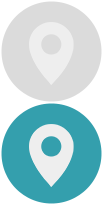
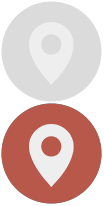
Site updated at 2013-11-23 23:05:37 UTC

Changed region(s): [[0.0, 0.4951, 0.9808, 0.9903], [0.375, 0.6408, 0.6058, 0.7864]]

diff --git a/locations/greenville/index.html b/locations/greenville/index.html
@@ -43,10 +43,10 @@
 </head>
 
 <body>
-  <div class="header" style="background-color:  #D2B42A ;"><div class="container"><a href="/"><div class="logo"><img src="/images/iron-yard-logo.svg" /></div></a><div class="primary"><ul class="pages-list"><li><a href="/jobs">Jobs</a></li><li><a href="/about">About</a></li><li><a href="http://theironyardnews.tumblr.com">News</a></li><li><a href="/blog">Blog</a></li></ul><ul class="sites-list"><li><a href="/locations">Locations</a></li><li><a href="/education">Education</a></li><li><a href="/accelerator">Accelerator</a></li><li><a href="/cowork">CoWork</a></li></ul></div></div></div>
+  <div class="header" style="background-color:  #B8584B ;"><div class="container"><a href="/"><div class="logo"><img src="/images/iron-yard-logo.svg" /></div></a><div class="primary"><ul class="pages-list"><li><a href="/jobs">Jobs</a></li><li><a href="/about">About</a></li><li><a href="http://theironyardnews.tumblr.com">News</a></li><li><a href="/blog">Blog</a></li></ul><ul class="sites-list"><li><a href="/locations">Locations</a></li><li><a href="/education">Education</a></li><li><a href="/accelerator">Accelerator</a></li><li><a href="/cowork">CoWork</a></li></ul></div></div></div>
 
   
-  <div class="main" style="width:100%;"><div class="intro"><div class="slider"><ul><li class="animate-out"><div class="slide"><div class="bg" style="background-image: url(/images/locations/greenville/slider/greenville-slider-city.jpg);"></div></div></li><li class="animate-out"><div class="slide"><div class="bg" style="background-image: url(/images/locations/greenville/slider/greenville-slider-next.jpg);"></div></div></li><li class="animate-out"><div class="slide"><div class="bg" style="background-image: url(/images/locations/greenville/slider/greenville-slider-mountains.jpg);"></div></div></li><li class="animate-out"><div class="slide"><div class="bg" style="background-image: url(/images/locations/greenville/slider/greenville-slider-railside.jpg);"></div></div></li><li class="animate-out"><div class="slide"><div class="bg" style="background-image: url(/images/locations/greenville/slider/greenville-slider-river.jpg);"></div></div></li></ul></div></div><div class="intro" style="background-color:#D2B42A;"><div class="container"><div class="row"><div class="intro-content"><div class="triangle" style="border-top: 20px solid #D2B42A;"></div><h1><a class="ss-left back" href="/locations"></a>Greenville, SC</h1><div class="secondary"></div></div></div></div></div><div class="container"><div class="content"><div class="article row"><div class="span8"><div class="article-content"><p>Nestled into the foothills of the Blue Ridge Mountains, Greenville, South Carolina has combined traditional southern charm, stunning natural beauty and nationally-respected tech and design communities to create one of America&#8217;s hottest emerging destinations and fastest growing cities. </p><p>Greenville is also the birthplace of The Iron Yard, home to our HQ, and made the way for our first accelerator program, first intensive Academy courses, and first kids classes.</p><h2>What we offer in Greenville</h2><h3>The Iron Yard Academy</h3><hr /><p class="programs-image"><img alt="The Iron Yard Academy" src="/images/locations/greenville/programs/greenville-programs-academy.jpg" /></p><div class="right-of-img"><p>We offer an intensive Front End Enginerering course and other, shorter-format design and development classes in Greenville. </p><ul><li><a href="/education/academy/front-end-engineering">Front End Engineering</a></li><li><a href="/education/academy">All courses</a></li></ul></div><h3>CoWorking Spaces</h3><hr /><p class="programs-image"><img alt="CoWorking at The Iron Yard" src="/images/locations/greenville/programs/greenville-programs-cowork.jpg" /></p><div class="right-of-img"><p>We have two phenomenal CoWorking spaces in Greenville. Railside and NEXT is adjacent to our Academy classroom space, and Railside is a stand-alone location just a short bike ride away. </p><ul><li><a href="/cowork">Learn more about CoWorking at The Iron Yard</a></li></ul></div><h3>CoderDojo and kids classes</h3><hr /><p class="programs-image"><img alt="CoderDojo and kids classes" src="/images/locations/greenville/programs/greenville-programs-kids.jpg" /></p><div class="right-of-img"><p>We teach kids programming classes for free through CoderDojo and offer more advanced after school programs through our Labs courses. </p><ul><li><a href="/education/coderdojo">Greenville CoderDojo classes</a></li><li><a href="/education/labs">Greenville Labs courses</a></li></ul></div><h3>Greenville Grok</h3><hr /><p class="programs-image"><img alt="Grok" src="/images/locations/greenville/programs/greenville-programs-grok.jpg" /></p><div class="right-of-img"><p>Grok is a conference focused on big conversations and big change—but don&#8217;t expect your average speaker-and-panel format. There are no heroes here, just people hungry for tectonic shifts in thinking and doing.</p><ul><li><a href="/events/grok">Learn more about Greenville Grok</a></li><li><a href="https://tito.io/the-iron-yard/Grok-2014">Get a ticket (while they last)</a></li></ul></div></div></div><div class="article-sidebar-city span4"><div class="headersignup"><div class="article-sidebar-content-section"><p><img alt="Greenville, SC Falls Park and Liberty Bridge" src="/images/locations/greenville/sidebar/greenville-sidebar-bridge.jpg" style="border-radius: 3px;" /></p><p>Learn more about life and work in Greenville. </p><p><a class="button" href="http://lifeingreenville.com">Life in Greenville</a></p></div><div class="article-sidebar-content-section"><p><img alt="Greenville, SC Falls Fall for Greenville crowds on Main Street" src="/images/locations/greenville/sidebar/greenville-sidebar-festival.jpg" style="border-radius: 3px;" /></p><p>Check out everything that&#8217;s happening. </p><p><a class="button" href="http://visitgreenvillesc.com">Visit Greenville, SC</a></p></div><h3>Other locations</h3><hr /><ul><li><a href="/locations/spartanburg">Spartanburg, SC</a></li></ul></div></div></div></div></div></div><script type="text/javascript">$('document').ready(function(){
+  <div class="main" style="width:100%;"><div class="intro"><div class="slider"><ul><li class="animate-out"><div class="slide"><div class="bg" style="background-image: url(/images/locations/greenville/slider/greenville-slider-city.jpg);"></div></div></li><li class="animate-out"><div class="slide"><div class="bg" style="background-image: url(/images/locations/greenville/slider/greenville-slider-next.jpg);"></div></div></li><li class="animate-out"><div class="slide"><div class="bg" style="background-image: url(/images/locations/greenville/slider/greenville-slider-mountains.jpg);"></div></div></li><li class="animate-out"><div class="slide"><div class="bg" style="background-image: url(/images/locations/greenville/slider/greenville-slider-railside.jpg);"></div></div></li><li class="animate-out"><div class="slide"><div class="bg" style="background-image: url(/images/locations/greenville/slider/greenville-slider-river.jpg);"></div></div></li></ul></div></div><div class="intro" style="background-color:#B8584B;"><div class="container"><div class="row"><div class="intro-content"><div class="triangle" style="border-top: 20px solid #B8584B;"></div><h1><a class="ss-left back" href="/locations"></a>Greenville, SC</h1><div class="secondary"></div></div></div></div></div><div class="container"><div class="content"><div class="article row"><div class="span8"><div class="article-content"><p>Nestled into the foothills of the Blue Ridge Mountains, Greenville, South Carolina has combined traditional southern charm, stunning natural beauty and nationally-respected tech and design communities to create one of America&#8217;s hottest emerging destinations and fastest growing cities. </p><p>Greenville is also the birthplace of The Iron Yard, home to our HQ, and made the way for our first accelerator program, first intensive Academy courses, and first kids classes.</p><h2>What we offer in Greenville</h2><h3>The Iron Yard Academy</h3><hr /><p class="programs-image"><img alt="The Iron Yard Academy" src="/images/locations/greenville/programs/greenville-programs-academy.jpg" /></p><div class="right-of-img"><p>We offer an intensive Front End Enginerering course and other, shorter-format design and development classes in Greenville. </p><ul><li><a href="/education/academy/front-end-engineering">Front End Engineering</a></li><li><a href="/education/academy">All courses</a></li></ul></div><h3>CoWorking Spaces</h3><hr /><p class="programs-image"><img alt="CoWorking at The Iron Yard" src="/images/locations/greenville/programs/greenville-programs-cowork.jpg" /></p><div class="right-of-img"><p>We have two phenomenal CoWorking spaces in Greenville. Railside and NEXT is adjacent to our Academy classroom space, and Railside is a stand-alone location just a short bike ride away. </p><ul><li><a href="/cowork">Learn more about CoWorking at The Iron Yard</a></li></ul></div><h3>CoderDojo and kids classes</h3><hr /><p class="programs-image"><img alt="CoderDojo and kids classes" src="/images/locations/greenville/programs/greenville-programs-kids.jpg" /></p><div class="right-of-img"><p>We teach kids programming classes for free through CoderDojo and offer more advanced after school programs through our Labs courses. </p><ul><li><a href="/education/coderdojo">Greenville CoderDojo classes</a></li><li><a href="/education/labs">Greenville Labs courses</a></li></ul></div><h3>Greenville Grok</h3><hr /><p class="programs-image"><img alt="Grok" src="/images/locations/greenville/programs/greenville-programs-grok.jpg" /></p><div class="right-of-img"><p>Grok is a conference focused on big conversations and big change—but don&#8217;t expect your average speaker-and-panel format. There are no heroes here, just people hungry for tectonic shifts in thinking and doing.</p><ul><li><a href="/events/grok">Learn more about Greenville Grok</a></li><li><a href="https://tito.io/the-iron-yard/Grok-2014">Get a ticket (while they last)</a></li></ul></div></div></div><div class="article-sidebar-city span4"><div class="headersignup"><div class="article-sidebar-content-section"><p><img alt="Greenville, SC Falls Park and Liberty Bridge" src="/images/locations/greenville/sidebar/greenville-sidebar-bridge.jpg" style="border-radius: 3px;" /></p><p>Learn more about life and work in Greenville. </p><p><a class="button" href="http://lifeingreenville.com">Life in Greenville</a></p></div><div class="article-sidebar-content-section"><p><img alt="Greenville, SC Falls Fall for Greenville crowds on Main Street" src="/images/locations/greenville/sidebar/greenville-sidebar-festival.jpg" style="border-radius: 3px;" /></p><p>Check out everything that&#8217;s happening. </p><p><a class="button" href="http://visitgreenvillesc.com">Visit Greenville, SC</a></p></div><h3>Other locations</h3><hr /><ul><li><a href="/locations/spartanburg">Spartanburg, SC</a></li></ul></div></div></div></div></div></div><script type="text/javascript">$('document').ready(function(){
   sequence = $(".slider").sequence({
     autoPlay: true,
     autoPlayDelay: 3000,

diff --git a/locations/spartanburg/index.html b/locations/spartanburg/index.html
@@ -43,10 +43,10 @@
 </head>
 
 <body>
-  <div class="header" style="background-color:  #D2B42A ;"><div class="container"><a href="/"><div class="logo"><img src="/images/iron-yard-logo.svg" /></div></a><div class="primary"><ul class="pages-list"><li><a href="/jobs">Jobs</a></li><li><a href="/about">About</a></li><li><a href="http://theironyardnews.tumblr.com">News</a></li><li><a href="/blog">Blog</a></li></ul><ul class="sites-list"><li><a href="/locations">Locations</a></li><li><a href="/education">Education</a></li><li><a href="/accelerator">Accelerator</a></li><li><a href="/cowork">CoWork</a></li></ul></div></div></div>
+  <div class="header" style="background-color:  #B8584B ;"><div class="container"><a href="/"><div class="logo"><img src="/images/iron-yard-logo.svg" /></div></a><div class="primary"><ul class="pages-list"><li><a href="/jobs">Jobs</a></li><li><a href="/about">About</a></li><li><a href="http://theironyardnews.tumblr.com">News</a></li><li><a href="/blog">Blog</a></li></ul><ul class="sites-list"><li><a href="/locations">Locations</a></li><li><a href="/education">Education</a></li><li><a href="/accelerator">Accelerator</a></li><li><a href="/cowork">CoWork</a></li></ul></div></div></div>
 
   
-  <div class="main" style="width:100%;"><div class="intro"><div class="slider"><ul><li class="animate-out"><div class="slide"><div class="bg" style="background-image: url(/images/locations/spartanburg/slider/spartanburg-slider-city.jpg);"></div></div></li><li class="animate-out"><div class="slide"><div class="bg" style="background-image: url(/images/locations/spartanburg/slider/spartanburg-slider-bmw.jpg);"></div></div></li><li class="animate-out"><div class="slide"><div class="bg" style="background-image: url(/images/locations/spartanburg/slider/spartanburg-slider-fountain.jpg);"></div></div></li><li class="animate-out"><div class="slide"><div class="bg" style="background-image: url(/images/locations/spartanburg/slider/spartanburg-slider-big-wheels.jpg);"></div></div></li></ul></div></div><div class="intro" style="background-color:#D2B42A;"><div class="container"><div class="row"><div class="intro-content"><div class="triangle" style="border-top: 20px solid #D2B42A;"></div><h1><a class="ss-left back" href="/locations"></a>Spartanburg, SC</h1><div class="secondary"></div></div></div></div></div><div class="container"><div class="content"><div class="article row"><div class="span8"><div class="article-content"><p>A proverbial sister-city to Greenville, Spartanburg is where we launched our second location and Digital Health Accelerator. Originally known for its historic charm (think turn of the century houses and an old school town square complete with clock tower), its leaders are fully committed to the next wave of its development as a medical innovation hub. </p><p>The successful fundraising after our first class is more than enough proof that their vision is becoming reality.</p><h2>What we offer in Spartanburg</h2><h3>Digital Health Accelerator</h3><hr /><p class="programs-image"><img alt="Digital Health Accelerator" src="/images/locations/spartanburg/programs/spartanburg-programs-health-accelerator.jpg" /></p><div class="right-of-img"><p>From wellness apps to enterprise software, we’re helping startups build the future of health.</p><ul><li><a href="/accelerator/digital-health-program">Checkout the Digital Health Accelerator</a></li><li><a href="/portfolio">Browse our portfolio companies</a></li></ul></div><h3>CoWorking Space</h3><hr /><p class="programs-image"><img alt="CoWorking at The Iron Yard" src="/images/locations/spartanburg/programs/spartanburg-programs-cowork.jpg" /></p><div class="right-of-img"><p>Housed in the same buildling as our Health Accelerator, The Mill is an incredible collection of startups and creative people. It&#8217;s also 1 block away from an amazing craft brewery. </p><ul><li><a href="/cowork">Learn more about CoWorking at The Iron Yard</a></li></ul></div><h3>CoderDojo and kids classes</h3><hr /><p class="programs-image"><img alt="CoderDojo and kids classes" src="/images/locations/greenville/programs/greenville-programs-kids.jpg" /></p><div class="right-of-img"><p>We teach kids programming classes for free through CoderDojo and offer more advanced after school programs through our Labs courses. </p><ul><li><a href="/education/coderdojo">Spartanburg CoderDojo classes</a></li><li><a href="/education/labs">Spartanburg Labs courses</a></li></ul></div></div></div><div class="article-sidebar-city span4"><div class="headersignup"><div class="article-sidebar-content-section"><p><img alt="Greenville, SC Falls Park and Liberty Bridge" src="/images/locations/spartanburg/sidebar/spartanburg-sidebar-fountain.jpg" style="border-radius: 3px;" /></p><p>Learn more about life and work in Spartanburg. </p><p><a class="button" href="http://www.cityofspartanburg.org/">City of Spartanburg</a></p></div><div class="article-sidebar-content-section"><p><img alt="Greenville, SC Falls Fall for Greenville crowds on Main Street" src="/images/locations/spartanburg/sidebar/spartanburg-sidebar-hub-bub.jpg" style="border-radius: 3px;" /></p><p>Discover Spartanburg&#8217;s creative culture.  </p><p><a class="button" href="http://www.hub-bub.com/">Events at Hub-Bub</a></p></div><h3>Other locations</h3><hr /><ul><li><a href="/locations/greenville">Greenville, SC</a></li></ul></div></div></div></div></div></div><script type="text/javascript">$('document').ready(function(){
+  <div class="main" style="width:100%;"><div class="intro"><div class="slider"><ul><li class="animate-out"><div class="slide"><div class="bg" style="background-image: url(/images/locations/spartanburg/slider/spartanburg-slider-city.jpg);"></div></div></li><li class="animate-out"><div class="slide"><div class="bg" style="background-image: url(/images/locations/spartanburg/slider/spartanburg-slider-bmw.jpg);"></div></div></li><li class="animate-out"><div class="slide"><div class="bg" style="background-image: url(/images/locations/spartanburg/slider/spartanburg-slider-fountain.jpg);"></div></div></li><li class="animate-out"><div class="slide"><div class="bg" style="background-image: url(/images/locations/spartanburg/slider/spartanburg-slider-big-wheels.jpg);"></div></div></li></ul></div></div><div class="intro" style="background-color:#B8584B;"><div class="container"><div class="row"><div class="intro-content"><div class="triangle" style="border-top: 20px solid #B8584B;"></div><h1><a class="ss-left back" href="/locations"></a>Spartanburg, SC</h1><div class="secondary"></div></div></div></div></div><div class="container"><div class="content"><div class="article row"><div class="span8"><div class="article-content"><p>A proverbial sister-city to Greenville, Spartanburg is where we launched our second location and Digital Health Accelerator. Originally known for its historic charm (think turn of the century houses and an old school town square complete with clock tower), its leaders are fully committed to the next wave of its development as a medical innovation hub. </p><p>The successful fundraising after our first class is more than enough proof that their vision is becoming reality.</p><h2>What we offer in Spartanburg</h2><h3>Digital Health Accelerator</h3><hr /><p class="programs-image"><img alt="Digital Health Accelerator" src="/images/locations/spartanburg/programs/spartanburg-programs-health-accelerator.jpg" /></p><div class="right-of-img"><p>From wellness apps to enterprise software, we’re helping startups build the future of health.</p><ul><li><a href="/accelerator/digital-health-program">Checkout the Digital Health Accelerator</a></li><li><a href="/portfolio">Browse our portfolio companies</a></li></ul></div><h3>CoWorking Space</h3><hr /><p class="programs-image"><img alt="CoWorking at The Iron Yard" src="/images/locations/spartanburg/programs/spartanburg-programs-cowork.jpg" /></p><div class="right-of-img"><p>Housed in the same buildling as our Health Accelerator, The Mill is an incredible collection of startups and creative people. It&#8217;s also 1 block away from an amazing craft brewery. </p><ul><li><a href="/cowork">Learn more about CoWorking at The Iron Yard</a></li></ul></div><h3>CoderDojo and kids classes</h3><hr /><p class="programs-image"><img alt="CoderDojo and kids classes" src="/images/locations/greenville/programs/greenville-programs-kids.jpg" /></p><div class="right-of-img"><p>We teach kids programming classes for free through CoderDojo and offer more advanced after school programs through our Labs courses. </p><ul><li><a href="/education/coderdojo">Spartanburg CoderDojo classes</a></li><li><a href="/education/labs">Spartanburg Labs courses</a></li></ul></div></div></div><div class="article-sidebar-city span4"><div class="headersignup"><div class="article-sidebar-content-section"><p><img alt="Greenville, SC Falls Park and Liberty Bridge" src="/images/locations/spartanburg/sidebar/spartanburg-sidebar-fountain.jpg" style="border-radius: 3px;" /></p><p>Learn more about life and work in Spartanburg. </p><p><a class="button" href="http://www.cityofspartanburg.org/">City of Spartanburg</a></p></div><div class="article-sidebar-content-section"><p><img alt="Greenville, SC Falls Fall for Greenville crowds on Main Street" src="/images/locations/spartanburg/sidebar/spartanburg-sidebar-hub-bub.jpg" style="border-radius: 3px;" /></p><p>Discover Spartanburg&#8217;s creative culture.  </p><p><a class="button" href="http://www.hub-bub.com/">Events at Hub-Bub</a></p></div><h3>Other locations</h3><hr /><ul><li><a href="/locations/greenville">Greenville, SC</a></li></ul></div></div></div></div></div></div><script type="text/javascript">$('document').ready(function(){
   sequence = $(".slider").sequence({
     autoPlay: true,
     autoPlayDelay: 3000,

diff --git a/locations/index.html b/locations/index.html
@@ -43,10 +43,10 @@
 </head>
 
 <body>
-  <div class="header" style="background-color:  #D2B42A ;"><div class="container"><a href="/"><div class="logo"><img src="/images/iron-yard-logo.svg" /></div></a><div class="primary"><ul class="pages-list"><li><a href="/jobs">Jobs</a></li><li><a href="/about">About</a></li><li><a href="http://theironyardnews.tumblr.com">News</a></li><li><a href="/blog">Blog</a></li></ul><ul class="sites-list"><li><a href="/locations">Locations</a></li><li><a href="/education">Education</a></li><li><a href="/accelerator">Accelerator</a></li><li><a href="/cowork">CoWork</a></li></ul></div></div></div>
+  <div class="header" style="background-color:  #B8584B ;"><div class="container"><a href="/"><div class="logo"><img src="/images/iron-yard-logo.svg" /></div></a><div class="primary"><ul class="pages-list"><li><a href="/jobs">Jobs</a></li><li><a href="/about">About</a></li><li><a href="http://theironyardnews.tumblr.com">News</a></li><li><a href="/blog">Blog</a></li></ul><ul class="sites-list"><li><a href="/locations">Locations</a></li><li><a href="/education">Education</a></li><li><a href="/accelerator">Accelerator</a></li><li><a href="/cowork">CoWork</a></li></ul></div></div></div>
 
   
-  <div class="main" style="width:100%;"><div class="intro" style="background-color:#D2B42A;"><div class="short-slide" style="background-image: url(/images/locations/locations-banner.jpg);"></div><div class="container"><div class="row"><div class="intro-content"><div class="triangle" style="border-top: 20px solid #D2B42A;"></div><h1><a class="ss-left back" href="/"></a>Locations</h1><div class="description">The Iron Yard is one family with many homes. These are our cities.</div><div class="secondary"></div></div></div></div></div><div class="container"><div class="content"><div class="article row"><div class=" span12 "><div class="article-content"><div class="location-index">
+  <div class="main" style="width:100%;"><div class="intro" style="background-color:#B8584B;"><div class="short-slide" style="background-image: url(/images/locations/locations-banner.jpg);"></div><div class="container"><div class="row"><div class="intro-content"><div class="triangle" style="border-top: 20px solid #B8584B;"></div><h1><a class="ss-left back" href="/"></a>Locations</h1><div class="description">The Iron Yard is one family with many homes. These are our cities.</div><div class="secondary"></div></div></div></div></div><div class="container"><div class="content"><div class="article row"><div class=" span12 "><div class="article-content"><div class="location-index">
   <div class="span8">
     <h2>Atlanta, GA</h2>
   </div>
@@ -85,7 +85,7 @@
   </div>
 
   <div class="article-sidebar span4">
-    <a class="locations-button" href="/locations/charleston">
+    <a class="locations-button" href="/locations/charleston"> 
       <p>Learn More</p>
     </a>
 

diff --git a/locations/charleston/index.html b/locations/charleston/index.html
@@ -43,10 +43,10 @@
 </head>
 
 <body>
-  <div class="header" style="background-color:  #D2B42A ;"><div class="container"><a href="/"><div class="logo"><img src="/images/iron-yard-logo.svg" /></div></a><div class="primary"><ul class="pages-list"><li><a href="/jobs">Jobs</a></li><li><a href="/about">About</a></li><li><a href="http://theironyardnews.tumblr.com">News</a></li><li><a href="/blog">Blog</a></li></ul><ul class="sites-list"><li><a href="/locations">Locations</a></li><li><a href="/education">Education</a></li><li><a href="/accelerator">Accelerator</a></li><li><a href="/cowork">CoWork</a></li></ul></div></div></div>
+  <div class="header" style="background-color:  #B8584B ;"><div class="container"><a href="/"><div class="logo"><img src="/images/iron-yard-logo.svg" /></div></a><div class="primary"><ul class="pages-list"><li><a href="/jobs">Jobs</a></li><li><a href="/about">About</a></li><li><a href="http://theironyardnews.tumblr.com">News</a></li><li><a href="/blog">Blog</a></li></ul><ul class="sites-list"><li><a href="/locations">Locations</a></li><li><a href="/education">Education</a></li><li><a href="/accelerator">Accelerator</a></li><li><a href="/cowork">CoWork</a></li></ul></div></div></div>
 
   
-  <div class="main" style="width:100%;"><div class="intro" style="background-color:#D2B42A;"><div class="container"><div class="row"><div class="intro-content"><div class="triangle" style="border-top: 20px solid #D2B42A;"></div><h1><a class="ss-left back" href="/locations"></a>Charleston, SC</h1><div class="description">Coming in 2014.</div><div class="secondary"></div></div></div></div></div><div class="container"><div class="content"><div class="article row"><div class=" span8 "><div class="article-content"><h3>We&rsquo;re expanding to Charleston.</h3>
+  <div class="main" style="width:100%;"><div class="intro" style="background-color:#B8584B;"><div class="container"><div class="row"><div class="intro-content"><div class="triangle" style="border-top: 20px solid #B8584B;"></div><h1><a class="ss-left back" href="/locations"></a>Charleston, SC</h1><div class="description">Coming in 2014.</div><div class="secondary"></div></div></div></div></div><div class="container"><div class="content"><div class="article row"><div class=" span8 "><div class="article-content"><h3>We&rsquo;re expanding to Charleston.</h3>
 
 <p>Right now we&rsquo;re working with a select group to bring <a href="/education/academy/front-end-engineering">The Iron Yard Academy</a> and CoWorking to The Holy City, building the foundations for <strong>iOS/mobile</strong>, <strong>Ruby on Rails</strong>, and <strong>Front End Engineering</strong> courses.</p>
 

diff --git a/locations/atlanta/index.html b/locations/atlanta/index.html
@@ -43,10 +43,10 @@
 </head>
 
 <body>
-  <div class="header" style="background-color:  #D2B42A ;"><div class="container"><a href="/"><div class="logo"><img src="/images/iron-yard-logo.svg" /></div></a><div class="primary"><ul class="pages-list"><li><a href="/jobs">Jobs</a></li><li><a href="/about">About</a></li><li><a href="http://theironyardnews.tumblr.com">News</a></li><li><a href="/blog">Blog</a></li></ul><ul class="sites-list"><li><a href="/locations">Locations</a></li><li><a href="/education">Education</a></li><li><a href="/accelerator">Accelerator</a></li><li><a href="/cowork">CoWork</a></li></ul></div></div></div>
+  <div class="header" style="background-color:  #B8584B ;"><div class="container"><a href="/"><div class="logo"><img src="/images/iron-yard-logo.svg" /></div></a><div class="primary"><ul class="pages-list"><li><a href="/jobs">Jobs</a></li><li><a href="/about">About</a></li><li><a href="http://theironyardnews.tumblr.com">News</a></li><li><a href="/blog">Blog</a></li></ul><ul class="sites-list"><li><a href="/locations">Locations</a></li><li><a href="/education">Education</a></li><li><a href="/accelerator">Accelerator</a></li><li><a href="/cowork">CoWork</a></li></ul></div></div></div>
 
   
-  <div class="main" style="width:100%;"><div class="intro" style="background-color:#D2B42A;"><div class="container"><div class="row"><div class="intro-content"><div class="triangle" style="border-top: 20px solid #D2B42A;"></div><h1><a class="ss-left back" href="/locations"></a>Atlanta, GA</h1><div class="description">Coming in 2014.</div><div class="secondary"></div></div></div></div></div><div class="container"><div class="content"><div class="article row"><div class=" span8 "><div class="article-content"><h3>We&rsquo;re expanding to Atlanta.</h3>
+  <div class="main" style="width:100%;"><div class="intro" style="background-color:#B8584B;"><div class="container"><div class="row"><div class="intro-content"><div class="triangle" style="border-top: 20px solid #B8584B;"></div><h1><a class="ss-left back" href="/locations"></a>Atlanta, GA</h1><div class="description">Coming in 2014.</div><div class="secondary"></div></div></div></div></div><div class="container"><div class="content"><div class="article row"><div class=" span8 "><div class="article-content"><h3>We&rsquo;re expanding to Atlanta.</h3>
 
 <p>Right now we&rsquo;re working with a select group to bring <a href="/education/academy/front-end-engineering">The Iron Yard Academy</a> and CoWorking to Georgia&rsquo;s capitol, building the foundations for <strong>iOS/mobile</strong>, <strong>Ruby on Rails</strong>, and <strong>Front End Engineering</strong> courses.</p>
 

diff --git a/locations/durham/index.html b/locations/durham/index.html
@@ -43,10 +43,10 @@
 </head>
 
 <body>
-  <div class="header" style="background-color:  #D2B42A ;"><div class="container"><a href="/"><div class="logo"><img src="/images/iron-yard-logo.svg" /></div></a><div class="primary"><ul class="pages-list"><li><a href="/jobs">Jobs</a></li><li><a href="/about">About</a></li><li><a href="http://theironyardnews.tumblr.com">News</a></li><li><a href="/blog">Blog</a></li></ul><ul class="sites-list"><li><a href="/locations">Locations</a></li><li><a href="/education">Education</a></li><li><a href="/accelerator">Accelerator</a></li><li><a href="/cowork">CoWork</a></li></ul></div></div></div>
+  <div class="header" style="background-color:  #B8584B ;"><div class="container"><a href="/"><div class="logo"><img src="/images/iron-yard-logo.svg" /></div></a><div class="primary"><ul class="pages-list"><li><a href="/jobs">Jobs</a></li><li><a href="/about">About</a></li><li><a href="http://theironyardnews.tumblr.com">News</a></li><li><a href="/blog">Blog</a></li></ul><ul class="sites-list"><li><a href="/locations">Locations</a></li><li><a href="/education">Education</a></li><li><a href="/accelerator">Accelerator</a></li><li><a href="/cowork">CoWork</a></li></ul></div></div></div>
 
   
-  <div class="main" style="width:100%;"><div class="intro" style="background-color:#D2B42A;"><div class="container"><div class="row"><div class="intro-content"><div class="triangle" style="border-top: 20px solid #D2B42A;"></div><h1><a class="ss-left back" href="/locations"></a>Durham, NC</h1><div class="description">Coming in 2014.</div><div class="secondary"></div></div></div></div></div><div class="container"><div class="content"><div class="article row"><div class=" span8 "><div class="article-content"><h3>We&rsquo;re expanding to Durham.</h3>
+  <div class="main" style="width:100%;"><div class="intro" style="background-color:#B8584B;"><div class="container"><div class="row"><div class="intro-content"><div class="triangle" style="border-top: 20px solid #B8584B;"></div><h1><a class="ss-left back" href="/locations"></a>Durham, NC</h1><div class="description">Coming in 2014.</div><div class="secondary"></div></div></div></div></div><div class="container"><div class="content"><div class="article row"><div class=" span8 "><div class="article-content"><h3>We&rsquo;re expanding to Durham.</h3>
 
 <p>Right now we&rsquo;re working with a select group to bring <a href="/education/academy/front-end-engineering">The Iron Yard Academy</a> and CoWorking to Bull City, building the foundations for <strong>iOS/mobile</strong>, <strong>Ruby on Rails</strong>, and <strong>Front End Engineering</strong> courses.</p>
 

diff --git a/locations/tampa/index.html b/locations/tampa/index.html
@@ -43,10 +43,10 @@
 </head>
 
 <body>
-  <div class="header" style="background-color:  #D2B42A ;"><div class="container"><a href="/"><div class="logo"><img src="/images/iron-yard-logo.svg" /></div></a><div class="primary"><ul class="pages-list"><li><a href="/jobs">Jobs</a></li><li><a href="/about">About</a></li><li><a href="http://theironyardnews.tumblr.com">News</a></li><li><a href="/blog">Blog</a></li></ul><ul class="sites-list"><li><a href="/locations">Locations</a></li><li><a href="/education">Education</a></li><li><a href="/accelerator">Accelerator</a></li><li><a href="/cowork">CoWork</a></li></ul></div></div></div>
+  <div class="header" style="background-color:  #B8584B ;"><div class="container"><a href="/"><div class="logo"><img src="/images/iron-yard-logo.svg" /></div></a><div class="primary"><ul class="pages-list"><li><a href="/jobs">Jobs</a></li><li><a href="/about">About</a></li><li><a href="http://theironyardnews.tumblr.com">News</a></li><li><a href="/blog">Blog</a></li></ul><ul class="sites-list"><li><a href="/locations">Locations</a></li><li><a href="/education">Education</a></li><li><a href="/accelerator">Accelerator</a></li><li><a href="/cowork">CoWork</a></li></ul></div></div></div>
 
   
-  <div class="main" style="width:100%;"><div class="intro" style="background-color:#D2B42A;"><div class="container"><div class="row"><div class="intro-content"><div class="triangle" style="border-top: 20px solid #D2B42A;"></div><h1><a class="ss-left back" href="/locations"></a>Tampa, FL</h1><div class="description">Coming in 2014.</div><div class="secondary"></div></div></div></div></div><div class="container"><div class="content"><div class="article row"><div class=" span8 "><div class="article-content"><h3>We&rsquo;re expanding to Tampa.</h3>
+  <div class="main" style="width:100%;"><div class="intro" style="background-color:#B8584B;"><div class="container"><div class="row"><div class="intro-content"><div class="triangle" style="border-top: 20px solid #B8584B;"></div><h1><a class="ss-left back" href="/locations"></a>Tampa, FL</h1><div class="description">Coming in 2014.</div><div class="secondary"></div></div></div></div></div><div class="container"><div class="content"><div class="article row"><div class=" span8 "><div class="article-content"><h3>We&rsquo;re expanding to Tampa.</h3>
 
 <p>Right now we&rsquo;re working with a select group to bring <a href="/education/academy/front-end-engineering">The Iron Yard Academy</a> and CoWorking to Cigar City, building the foundations for <strong>iOS/mobile</strong>, <strong>Ruby on Rails</strong>, and <strong>Front End Engineering</strong> courses.</p>
 

diff --git a/blog/2012/11/09/ridepost-reaches-out-to-help-hurricane-sandy-victims/index.html b/blog/2012/11/09/ridepost-reaches-out-to-help-hurricane-sandy-victims/index.html
@@ -74,7 +74,7 @@
 <!-- more -->
 
 
-<blockquote><p>New York, we love you, and we’re doing what we can to help. Team RidePost is hitting the road Monday, November 12th from South Carolina to New York. We’re hoping to pick up donations along the way for those that are still living with the aftermath of Sandy. If you’re interested in contributing to the cause, or would like to volunteer with us, shoot us an email at <a href="&#x6d;&#x61;&#x69;&#108;&#116;&#111;&#x3a;&#104;&#101;&#x6c;&#108;&#111;&#64;&#x72;&#105;&#100;&#x65;&#112;&#111;&#x73;&#x74;&#46;&#99;&#111;&#109;">&#104;&#101;&#x6c;&#x6c;&#x6f;&#x40;&#114;&#105;&#100;&#101;&#x70;&#x6f;&#x73;&#x74;&#x2e;&#x63;&#x6f;&#x6d;</a> and let’s get ‘er done! If you need a ride, hop in here: <a href="https://www.ridepost.com/#!/posts/374">https://www.ridepost.com/#!/posts/374</a></p></blockquote>
+<blockquote><p>New York, we love you, and we’re doing what we can to help. Team RidePost is hitting the road Monday, November 12th from South Carolina to New York. We’re hoping to pick up donations along the way for those that are still living with the aftermath of Sandy. If you’re interested in contributing to the cause, or would like to volunteer with us, shoot us an email at <a href="&#109;&#97;&#105;&#108;&#116;&#x6f;&#58;&#104;&#101;&#108;&#108;&#x6f;&#64;&#x72;&#x69;&#x64;&#101;&#x70;&#x6f;&#115;&#x74;&#46;&#x63;&#x6f;&#109;">&#x68;&#x65;&#x6c;&#108;&#x6f;&#64;&#x72;&#x69;&#x64;&#x65;&#112;&#111;&#x73;&#116;&#46;&#99;&#111;&#x6d;</a> and let’s get ‘er done! If you need a ride, hop in here: <a href="https://www.ridepost.com/#!/posts/374">https://www.ridepost.com/#!/posts/374</a></p></blockquote>
 
 <p>There are a variety of ways we figure you can help, too:</p>
 
